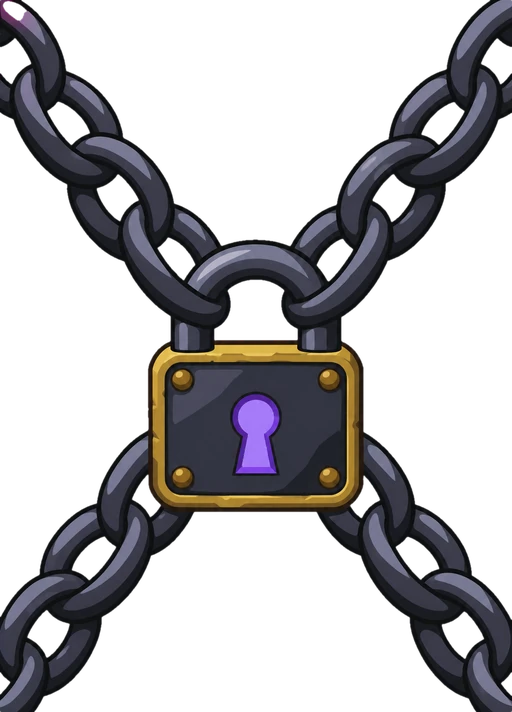
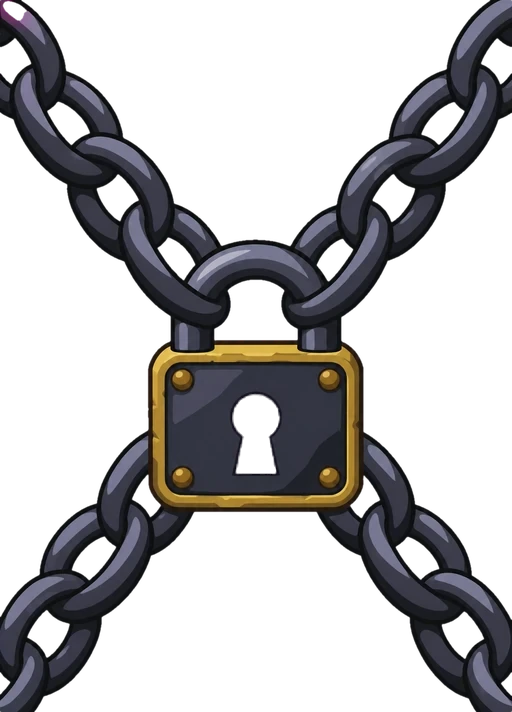
봉인 덮개: 열쇠 구멍(보라)을 투명하게 — 뒤 카드가 보이도록
Claude-Session: https://claude.ai/code/session_01UsiBrPk9kwis6B71C6gGhW

Changed region(s): [[0.4375, 0.5562, 0.5625, 0.6798]]

diff --git a/index.html b/index.html
@@ -10233,7 +10233,7 @@ const LM_TERMS=[
 <style id="lm-seal">
 /* 🔒 봉인 표시 (DHL 11-13 그림): 사슬 덮개 seal_cover · 걸리는 순간 fx_seal_lock(4×2 = 8장면, 흰색) → 덮개로 바뀜 */
 .card .dzi[data-seal]>*:not(.dzSeal){filter:grayscale(.8) brightness(.6)}
-.card .dzSeal{position:absolute;inset:0;z-index:60;pointer-events:none;border-radius:inherit;overflow:hidden;background:url(assets/ui/card/seal_cover.webp) center/100% 100% no-repeat;filter:drop-shadow(0 2px 2px #000a)}
+.card .dzSeal{position:absolute;inset:0;z-index:60;pointer-events:none;border-radius:inherit;overflow:hidden;background:url(assets/ui/card/seal_cover.webp?v=2) center/100% 100% no-repeat;filter:drop-shadow(0 2px 2px #000a)}
 html.lmB #hand .card.dz.noscore .dzi[data-seal]{filter:none!important}   /* 고른 봉인 카드: 사슬 색은 그대로 (카드 그림은 이미 회색) */
 .card .dzSeal.new{animation:lmSealCover .5s steps(1) both}
 .card .dzSeal.new::before{content:"";position:absolute;inset:0;background:url(assets/ui/card/fx_seal_lock.webp) 0 0/400% 200% no-repeat;animation:lmSealFx .48s steps(1) both}
